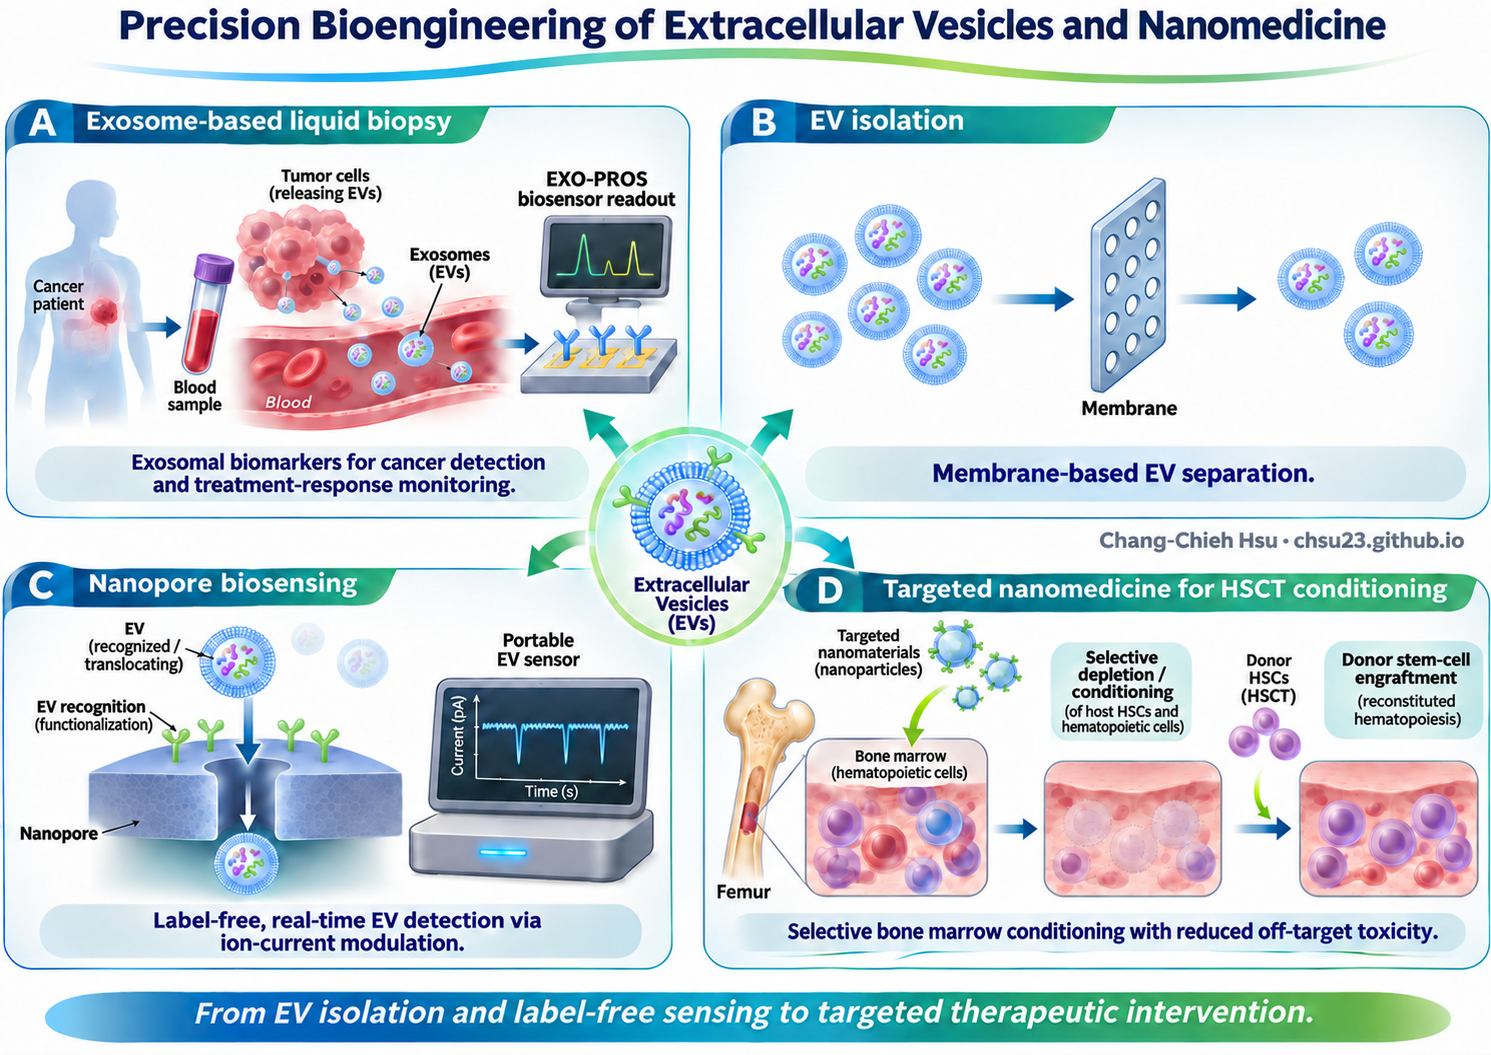
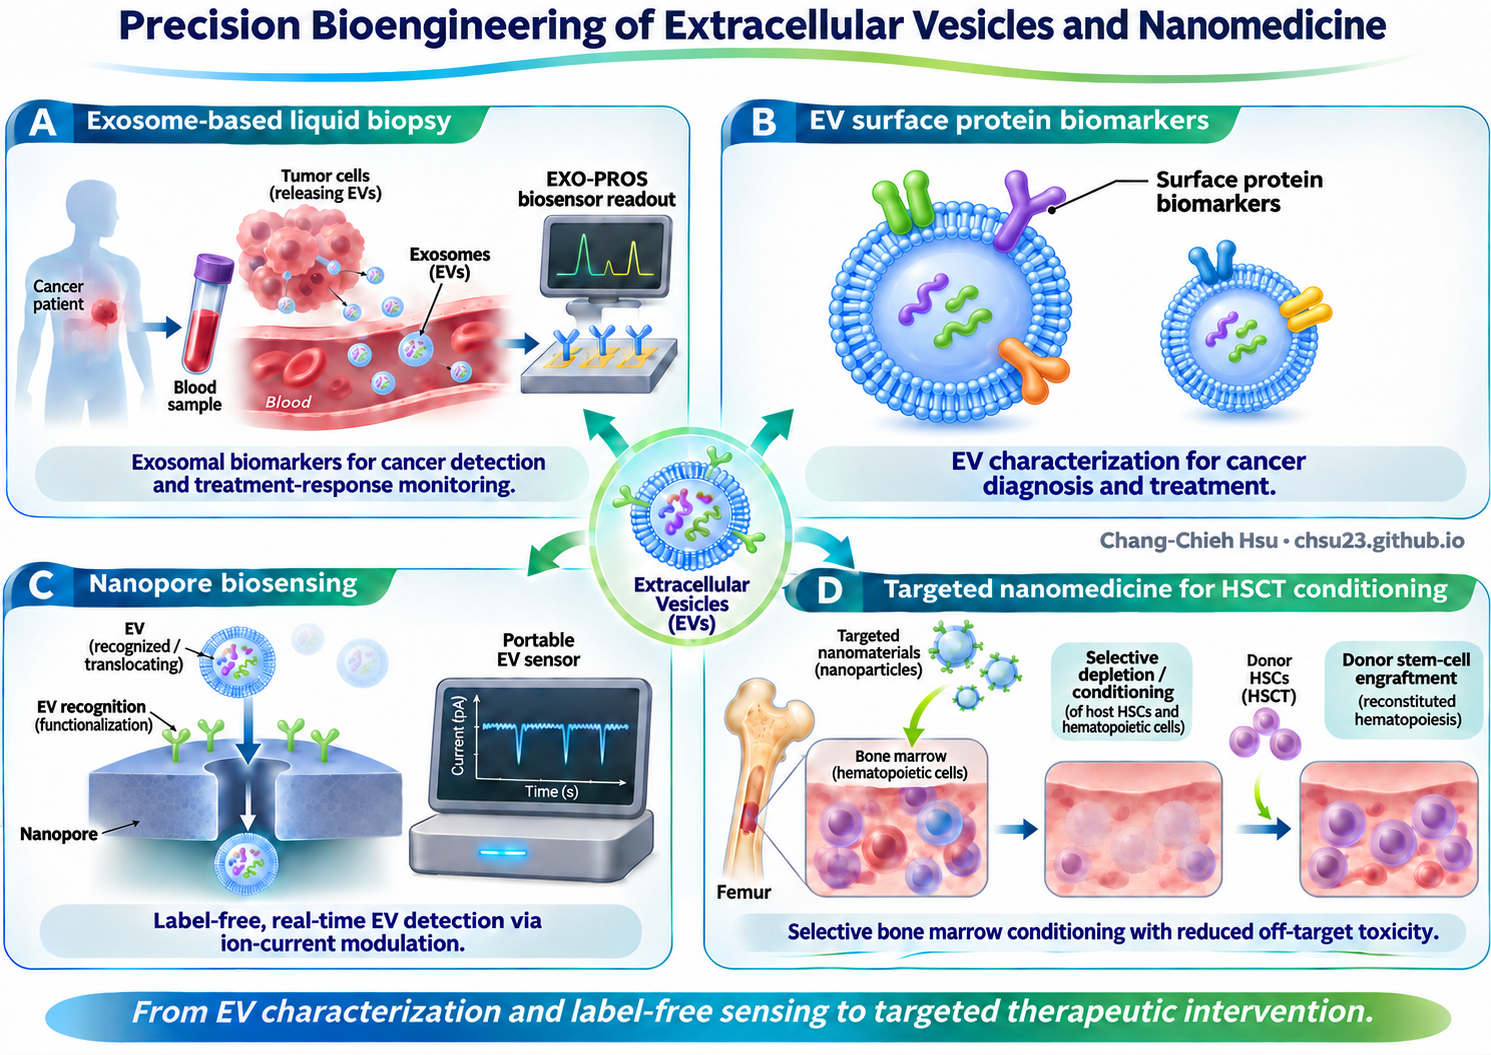
Add files via upload

diff --git a/index.html b/index.html
@@ -203,7 +203,7 @@
     <section aria-labelledby="bio">
       <h2 id="bio">Bio</h2>
       <!-- 可修改｜自我介紹。直接替換 p 標籤之間的文字。 -->
-      <p>I am currently a postdoctoral researcher at Rutgers University-Camden with <a class="bio-advisor" href="https://sites.rutgers.edu/youwen-zhang/" target="_blank" rel="noopener">Dr. Youwen Zhang</a>. I received my Ph.D. in Biomedical Engineering from the University at Buffalo under <a class="bio-advisor" href="https://www.acsu.buffalo.edu/~ywu32/" target="_blank" rel="noopener">Dr. Yun Wu</a>'s supervision, where I developed biosensors for exploring extracellular vesicle biomarkers for cancer detection and treatment monitoring. My current research focuses on extracellular vesicle isolation, nanopore sensing, and targeted nanomaterials for cancer treatment/bone marrow conditioning.</p>
+      <p>I am currently a postdoctoral researcher at Rutgers University-Camden with <a class="bio-advisor" href="https://sites.rutgers.edu/youwen-zhang/" target="_blank" rel="noopener">Dr. Youwen Zhang</a>. I received my Ph.D. in Biomedical Engineering from the University at Buffalo under <a class="bio-advisor" href="https://www.acsu.buffalo.edu/~ywu32/" target="_blank" rel="noopener">Dr. Yun Wu</a>'s supervision, where I developed biosensors for exploring extracellular vesicle biomarkers for cancer detection and treatment monitoring. My current research focuses on extracellular vesicle characterization and surface protein biomarkers for cancer diagnosis and treatment. I also develop nanopore biosensors and study targeted nanomaterials for cancer treatment and bone marrow conditioning.</p>
     </section>
 
     <!-- 可修改｜博士後期間的實驗室建置與儀器架設。 -->
@@ -233,7 +233,7 @@
       <ul class="cv-entries">
         <li>
           <strong>Rutgers University–Camden, NJ, USA</strong><span>Postdoctoral Researcher · 2024–Present</span>
-          <p>Set up new lab, developing novel nanopore sensors for cancer detection and treatment. EV isolation and characterization.</p>
+          <p>Set up new lab, developing novel nanopore sensors for cancer detection and treatment. Characterizing extracellular vesicles and studying their surface protein biomarkers for cancer diagnosis and treatment.</p>
         </li>
         <li>
           <strong>Tainan Municipal An-Nan Hospital, Tainan, Taiwan</strong><span>Radiographer · 2017–2019</span>
@@ -279,8 +279,8 @@
       <details>
         <summary>View technical skills</summary>
         <ul class="cv-entries">
-          <li><strong>Cell and molecular assays</strong><p>2D and 3D cell culture, MTT, CCK-8, Western blot, ELISA, qRT-PCR, immunohistochemistry, and miRNA and DNA isolation.</p></li>
-          <li><strong>Extracellular vesicle analysis and biosensing</strong><p>Size-exclusion chromatography, immunomagnetic separation, nanoparticle tracking analysis (NTA), surface plasmon resonance (SPR), solid-state nanopores, and patch-clamp electrochemistry.</p></li>
+          <li><strong>Cell and molecular assays</strong><p>2D and 3D cell culture, MTT, CCK-8, Western blot, ELISA, qRT-PCR, immunohistochemistry, and miRNA and DNA sample preparation.</p></li>
+          <li><strong>Extracellular vesicle characterization and biosensing</strong><p>Nanoparticle tracking analysis (NTA), surface plasmon resonance (SPR), solid-state nanopores, and patch-clamp electrochemistry.</p></li>
           <li><strong>Nanomaterials synthesis and characterization</strong><p>Hydrothermal synthesis, core–shell and mesoporous silica synthesis, bioconjugation, X-ray diffraction, dynamic light scattering, TEM, photoluminescence and UV–vis spectroscopy, confocal and TIRF microscopy, and electron-beam gold deposition.</p></li>
           <li><strong>Data analysis and design</strong><p>SPSS, GraphPad Prism, Excel, and Autodesk Fusion 360 for 3D CAD.</p></li>
           <li><strong>Medical imaging</strong><p>Diagnostic radiography, portable X-ray, CT, and PET/CT.</p></li>

diff --git a/research-interests.html b/research-interests.html
@@ -90,16 +90,16 @@
     <section aria-labelledby="research">
       <!-- 可修改｜研究方向。每個 li 是一個項目，可複製或刪除整行。 -->
       <ul class="research-list">
-        <li><strong>Extracellular vesicles:</strong> Isolation and cancer biomarker analysis</li>
+        <li><strong>Extracellular vesicles:</strong> Characterization and surface protein biomarkers for cancer diagnosis and treatment</li>
         <li><strong>Biosensor development:</strong> Label-free electrical detection of extracellular using Nanopore and SPR biosnesor vesicles</li>
         <li><strong>Targeted nanomedicine:</strong> X-ray–activated nanomaterials for cancer treatment/bone marrow conditioning</li>
       </ul>
 
       <!-- 可修改｜用同名的 research-overview.png 覆蓋舊圖即可。圖說可在 figcaption 裡修改。 -->
       <figure class="research-overview">
-        <img alt="Four research areas: exosome-based liquid biopsy, extracellular vesicle isolation, nanopore biosensing, and targeted nanomedicine for stem cell transplant conditioning." width="1491" height="1055" loading="lazy" decoding="async"
+        <img alt="Four research areas: exosome-based liquid biopsy, extracellular vesicle surface protein biomarkers, nanopore biosensing, and targeted nanomedicine for stem cell transplant conditioning." width="1491" height="1055" loading="lazy" decoding="async"
           src="./research-overview.png">
-        <figcaption>My research spans exosome-based liquid biopsy, extracellular vesicle isolation, nanopore biosensing, and targeted nanomedicine for bone marrow conditioning before hematopoietic stem cell transplantation. <a href="./contact.html">Please contact me</a> for permission to reuse this figure.</figcaption>
+        <figcaption>My research spans exosome-based liquid biopsy, extracellular vesicle characterization and surface protein biomarkers for cancer diagnosis and treatment, nanopore biosensing, and targeted nanomedicine for bone marrow conditioning before hematopoietic stem cell transplantation. <a href="./contact.html">Please contact me</a> for permission to reuse this figure.</figcaption>
       </figure>
     </section>
 
@@ -109,7 +109,7 @@
       <ul class="cv-entries">
         <li><strong>Exo-PROS liquid biopsy biosensor</strong><p>Designed the surface plasmon resonance sensing architecture, engineered the capture surface, and built the data analysis workflow. Benchmarked the assay against ELISA, qRT-PCR, and Western blot.</p></li>
         <li><strong>Extracellular vesicle biomarkers for cancer diagnosis and treatment monitoring</strong><p>Evaluated extracellular vesicle biomarkers in cohorts of patients with breast or lung cancer and investigated whether early changes in vesicle biomarkers could help predict response to immune checkpoint inhibitors.</p></li>
-        <li><strong>Extracellular vesicle isolation</strong><p>Developed a workflow to isolate extracellular vesicles for biomarker and functional studies.</p></li>
+        <li><strong>Extracellular vesicle characterization and surface protein biomarkers</strong><p>Study extracellular vesicle surface proteins and their potential applications in cancer diagnosis and treatment.</p></li>
       </ul>
     </section>
   </main>
